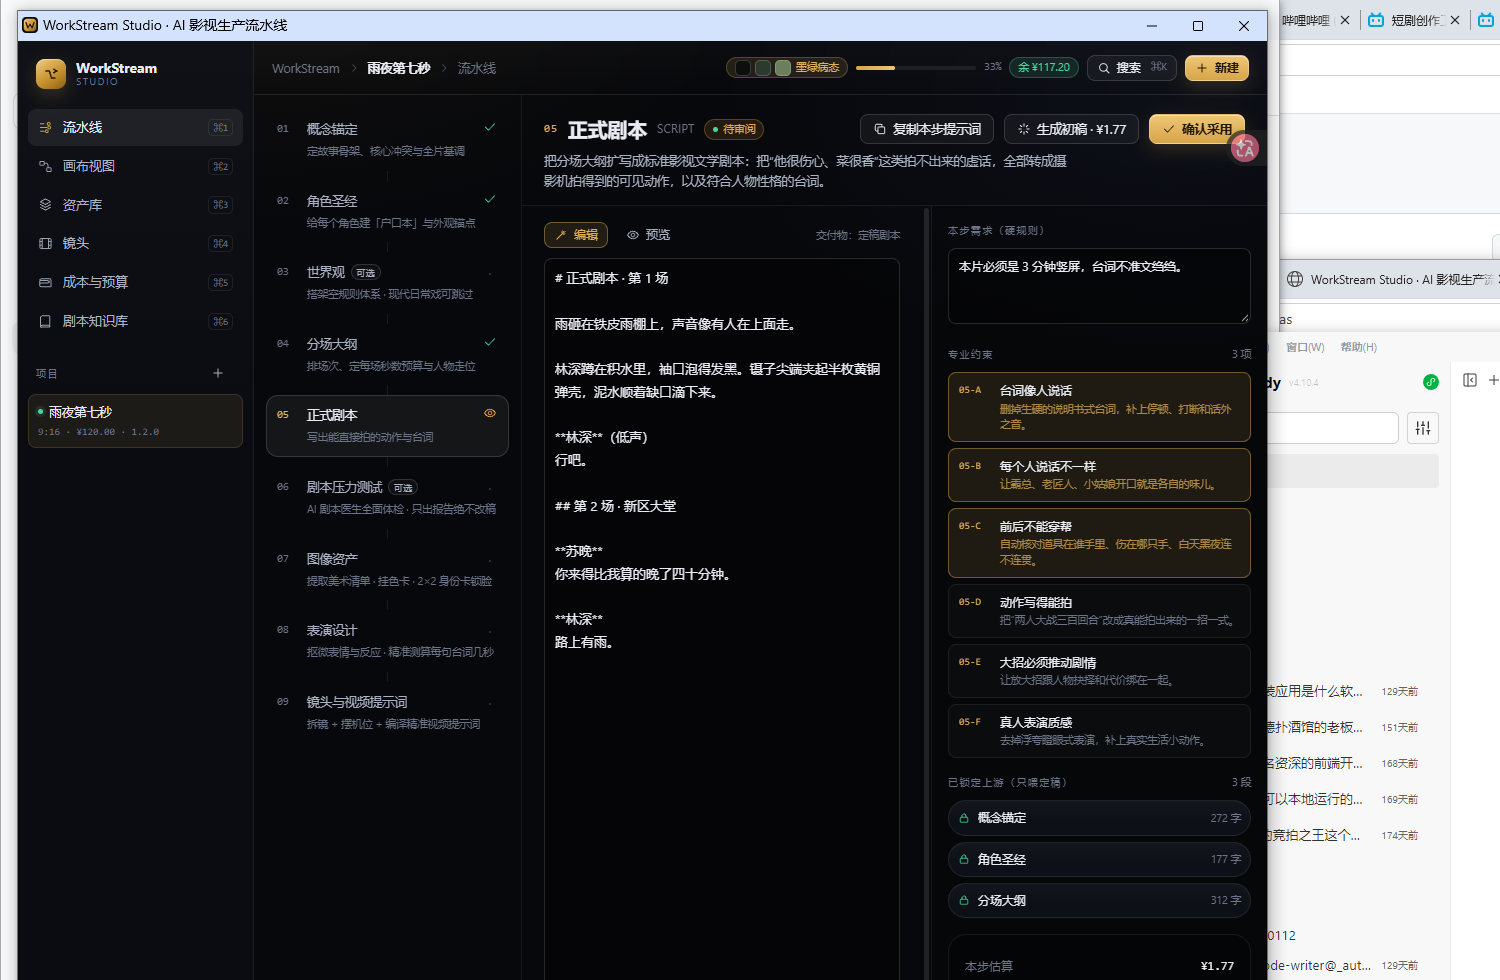
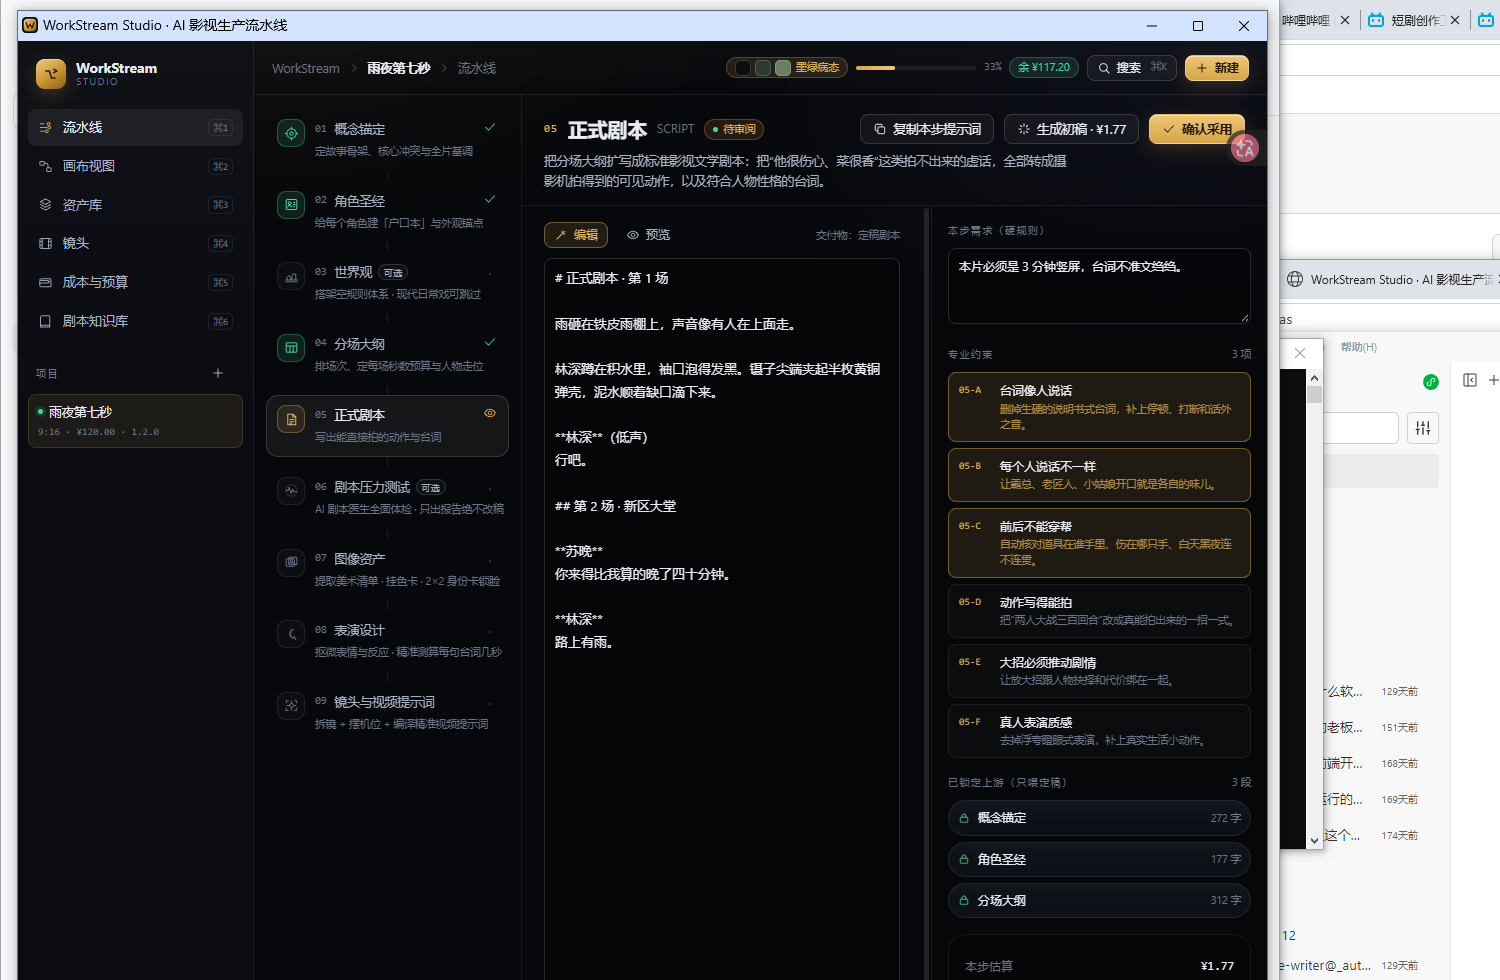
feat(design): 补齐视觉资产并接入界面
- 9 个阶段图标（24px 线稿）+ 5 张空状态插画 + 3 个状态徽标 + design tokens
- 阶段列表改为图标瓦片（激活金色 / 锁定绿色）
- 画布节点内嵌阶段图标
- 资产库 / 镜头 / 成本空状态接入插画
- 更新验收截图

diff --git a/src/ui/Illustration.tsx b/src/ui/Illustration.tsx
@@ -1,0 +1,64 @@
+/** 空状态插画：与 design/assets/empty-*.svg 同源，内联以省一次请求 */
+
+export type IllustrationKind = 'pipeline' | 'assets' | 'shots' | 'budget' | 'knowledge';
+
+export default function Illustration({ kind, width = 220 }: { kind: IllustrationKind; width?: number }) {
+  const common = { fill: 'none', strokeLinecap: 'round' as const, strokeLinejoin: 'round' as const };
+  return (
+    <svg viewBox="0 0 480 320" width={width} height={(width * 320) / 480} aria-hidden style={{ opacity: 0.9 }}>
+      {kind === 'pipeline' && (
+        <>
+          <g {...common} stroke="#2A3140" strokeWidth={1.5}>
+            <path d="M60 200h360" strokeDasharray="6 8" />
+            <path d="M182 183h40M308 183h40" strokeDasharray="4 6" />
+            <circle cx="414" cy="183" r="14" strokeDasharray="4 6" />
+          </g>
+          <g {...common}>
+            <rect x="96" y="150" width="86" height="66" rx="10" fill="#0D1016" stroke="#E0B055" strokeOpacity=".55" strokeWidth={1.6} />
+            <rect x="222" y="150" width="86" height="66" rx="10" fill="#0D1016" stroke="#2A3140" strokeDasharray="5 6" />
+            <rect x="348" y="150" width="60" height="66" rx="10" fill="#0D1016" stroke="#2A3140" strokeDasharray="5 6" />
+            <path d="M118 176h42M118 188h28" stroke="#E0B055" strokeOpacity=".55" strokeWidth={1.6} />
+          </g>
+        </>
+      )}
+      {kind === 'assets' && (
+        <g {...common}>
+          <rect x="88" y="96" width="96" height="128" rx="10" fill="#0D1016" stroke="#E0B055" strokeOpacity=".5" strokeWidth={1.5} />
+          <circle cx="136" cy="132" r="11" stroke="#E0B055" strokeOpacity=".5" strokeWidth={1.5} />
+          <rect x="200" y="96" width="96" height="128" rx="10" fill="#0D1016" stroke="#2A3140" strokeDasharray="5 6" />
+          <rect x="312" y="96" width="96" height="128" rx="10" fill="#0D1016" stroke="#2A3140" strokeDasharray="5 6" />
+          <path d="M112 168c8-14 18-21 24-21s16 7 24 21" stroke="#3A4354" strokeDasharray="4 6" />
+        </g>
+      )}
+      {kind === 'shots' && (
+        <g {...common}>
+          <rect x="60" y="118" width="360" height="84" rx="12" fill="#0D1016" stroke="#3A4354" strokeWidth={1.5} />
+          <path d="M60 142h360M60 178h360" stroke="#232A36" strokeWidth={1.5} />
+          <rect x="84" y="130" width="56" height="60" rx="6" stroke="#2A3140" strokeWidth={1.5} strokeDasharray="4 6" />
+          <rect x="156" y="130" width="56" height="60" rx="6" stroke="#2A3140" strokeWidth={1.5} strokeDasharray="4 6" />
+          <rect x="228" y="130" width="56" height="60" rx="6" stroke="#2A3140" strokeWidth={1.5} strokeDasharray="4 6" />
+          <rect x="300" y="130" width="56" height="60" rx="6" stroke="#3A4354" strokeWidth={1.5} />
+          <path d="M316 148l16 9-16 9z" fill="#E0B055" fillOpacity=".5" />
+        </g>
+      )}
+      {kind === 'budget' && (
+        <g {...common}>
+          <path d="M72 236h336M72 236V96" stroke="#2A3140" strokeWidth={1.5} />
+          <rect x="104" y="188" width="42" height="48" rx="6" stroke="#2A3140" strokeWidth={1.5} strokeDasharray="4 6" />
+          <rect x="176" y="164" width="42" height="72" rx="6" stroke="#2A3140" strokeWidth={1.5} strokeDasharray="4 6" />
+          <rect x="248" y="206" width="42" height="30" rx="6" stroke="#2A3140" strokeWidth={1.5} strokeDasharray="4 6" />
+          <rect x="320" y="140" width="42" height="96" rx="6" stroke="#2A3140" strokeWidth={1.5} strokeDasharray="4 6" />
+          <path d="M104 188l72-2 72 44 72-66" stroke="#E0B055" strokeOpacity=".45" strokeWidth={1.6} strokeDasharray="6 6" />
+        </g>
+      )}
+      {kind === 'knowledge' && (
+        <g {...common}>
+          <path d="M96 96h116v140H96z" fill="#0D1016" stroke="#E0B055" strokeOpacity=".5" strokeWidth={1.5} />
+          <path d="M212 96l60-22v140l-60 22" fill="#0D1016" stroke="#3A4354" strokeWidth={1.5} />
+          <path d="M120 126h68M120 148h68M120 170h44" stroke="#2A3140" strokeWidth={1.5} strokeDasharray="4 6" />
+          <path d="M232 118v96" stroke="#232A36" strokeWidth={1.5} />
+        </g>
+      )}
+    </svg>
+  );
+}

diff --git a/src/ui/StageIcon.tsx b/src/ui/StageIcon.tsx
@@ -1,0 +1,87 @@
+import type { ReactElement } from 'react';
+import type { StageId } from '../core/types';
+
+const paths: Record<StageId, ReactElement> = {
+  concept: (
+    <>
+      <circle cx="12" cy="12" r="7.5" />
+      <circle cx="12" cy="12" r="2.6" />
+      <path d="M12 2v3M12 19v3M2 12h3M19 12h3" />
+    </>
+  ),
+  characters: (
+    <>
+      <rect x="3.5" y="4" width="17" height="16" rx="2.4" />
+      <circle cx="9" cy="10" r="2.2" />
+      <path d="M5.8 16.6c.6-2 1.8-3 3.2-3s2.6 1 3.2 3" />
+      <path d="M15 9h3.2M15 12h3.2M15 15h2" />
+    </>
+  ),
+  world: (
+    <>
+      <path d="M3 17.5h18" />
+      <path d="M5 17.5V13l3-2 3 2v4.5" />
+      <path d="M13 17.5V9.5l3-2 3 2v8" />
+      <path d="M3 20.5h18" />
+    </>
+  ),
+  outline: (
+    <>
+      <rect x="3.5" y="4.5" width="17" height="15" rx="2" />
+      <path d="M3.5 9.5h17M9.5 9.5v10M15 9.5v10" />
+    </>
+  ),
+  script: (
+    <>
+      <path d="M6 3.5h8.5L19 8v12.5H6z" />
+      <path d="M14 3.5V8h5" />
+      <path d="M9 12h7M9 15.5h7M9 19h4" />
+    </>
+  ),
+  stress: (
+    <>
+      <path d="M3 12h3.5l2-5 3 10 2.5-7 1.8 4H21" />
+      <circle cx="12" cy="12" r="9" opacity=".35" />
+    </>
+  ),
+  lira: (
+    <>
+      <rect x="3.5" y="6" width="13" height="12" rx="1.8" />
+      <rect x="7.5" y="3.5" width="13" height="12" rx="1.8" />
+      <circle cx="12" cy="8.5" r="1.6" />
+      <path d="M7.8 14.2l3-3 2.4 2.4 2-2 2.8 2.8" />
+    </>
+  ),
+  acting: (
+    <>
+      <path d="M15.5 3.8c-3.6.6-6.2 3.4-6.2 7.2 0 4.2 3 7.2 6.2 7.2" />
+      <path d="M9.3 9.6h2.2M9.3 13.4h2.2" />
+      <path d="M15.7 15.6c1.6 1 2.8 2.6 3.3 4.6" />
+    </>
+  ),
+  cinedance: (
+    <>
+      <path d="M3.5 8V4.5H7M17 4.5h3.5V8M20.5 16v3.5H17M7 19.5H3.5V16" />
+      <circle cx="12" cy="12" r="3" />
+      <path d="M12 4.5v3M12 16.5v3M4.5 12h3M16.5 12h3" />
+    </>
+  ),
+};
+
+export default function StageIcon({ id, size = 15 }: { id: StageId; size?: number }) {
+  return (
+    <svg
+      viewBox="0 0 24 24"
+      width={size}
+      height={size}
+      fill="none"
+      stroke="currentColor"
+      strokeWidth={1.6}
+      strokeLinecap="round"
+      strokeLinejoin="round"
+      aria-hidden
+    >
+      {paths[id]}
+    </svg>
+  );
+}

diff --git a/src/features/Pipeline.tsx b/src/features/Pipeline.tsx
@@ -1,5 +1,6 @@
 import { useMemo, useState } from 'react';
 import { Icon } from '../ui/Icons';
+import StageIcon from '../ui/StageIcon';
 import { SectionTitle } from '../ui/kit';
 import { STAGES, stageById, upstreamLocked } from '../core/stages';
 import { skillsForStage } from '../core/skills';
@@ -69,9 +70,12 @@ export default function Pipeline() {
           return (
             <div key={s.id}>
               <button className={`stage-item ${s.id === activeStage ? 'on' : ''}`} onClick={() => openStage(s.id)}>
-                <span className="num">{s.code}</span>
+                <span className={`stage-ico ${st.status === 'locked' ? 'locked' : ''}`}>
+                  <StageIcon id={s.id} />
+                </span>
                 <span className="body">
                   <span className="nm">
+                    <span className="tiny mono dim" style={{ marginRight: 2 }}>{s.code}</span>
                     {s.name}
                     {s.optional ? <span className="tag" style={{ height: 16, padding: '0 5px', fontSize: 9 }}>可选</span> : null}
                   </span>

diff --git a/src/ui/styles.css b/src/ui/styles.css
@@ -316,6 +316,19 @@ select { cursor: pointer; }
   width: 20px; flex: none; padding-top: 2px;
 }
 .stage-item.on .num { color: var(--gold); }
+
+.stage-ico {
+  width: 28px; height: 28px; flex: none;
+  display: grid; place-items: center;
+  border-radius: 9px;
+  border: 1px solid var(--line);
+  background: rgba(255, 255, 255, 0.025);
+  color: var(--text-3);
+  transition: color 0.15s, border-color 0.15s, background 0.15s;
+}
+.stage-item:hover .stage-ico { color: var(--text-2); border-color: var(--line-strong); }
+.stage-item.on .stage-ico { color: var(--gold); border-color: rgba(224,176,85,0.35); background: var(--gold-soft); }
+.stage-ico.locked { color: var(--green); border-color: rgba(69,214,155,0.3); background: var(--green-soft); }
 .stage-item .body { min-width: 0; flex: 1; }
 .stage-item .nm { font-size: 12.5px; display: flex; align-items: center; gap: 6px; }
 .stage-item .sub { font-size: 10.5px; color: var(--text-3); white-space: nowrap; overflow: hidden; text-overflow: ellipsis; }

diff --git a/src/features/Shots.tsx b/src/features/Shots.tsx
@@ -1,6 +1,6 @@
 import { useState } from 'react';
 import { Icon } from '../ui/Icons';
-import { SectionTitle } from '../ui/kit';
+import { SectionTitle, Empty } from '../ui/kit';
 import { compileShotPrompt } from '../core/prompt';
 import { formatCNY, lineSeconds, UNIT_PRICE } from '../core/budget';
 import { useActive, useApp } from '../store/store';
@@ -93,7 +93,9 @@ export default function Shots() {
               ))}
             </tbody>
           </table>
-          {!project.shots.length ? <div className="empty">还没有镜头。先在 09 阶段拆镜，或在这里手动添加。</div> : null}
+          {!project.shots.length ? (
+            <Empty title="还没有镜头" hint="先在 09 阶段拆镜，或在这里手动添加。" illustration="shots" />
+          ) : null}
         </div>
 
         <div style={{ borderLeft: '1px solid var(--line)', overflowY: 'auto', padding: 16 }}>

diff --git a/src/ui/kit.tsx b/src/ui/kit.tsx
@@ -1,5 +1,6 @@
 import { useEffect, type ReactNode } from 'react';
 import { Icon } from './Icons';
+import Illustration, { type IllustrationKind } from './Illustration';
 
 export function Modal({
   open,
@@ -74,9 +75,14 @@ export function SectionTitle({ children, right }: { children: ReactNode; right?:
   );
 }
 
-export function Empty({ title, hint }: { title: string; hint?: string }) {
+export function Empty({ title, hint, illustration }: { title: string; hint?: string; illustration?: IllustrationKind }) {
   return (
     <div className="empty">
+      {illustration ? (
+        <div style={{ marginBottom: 10, display: 'flex', justifyContent: 'center' }}>
+          <Illustration kind={illustration} width={200} />
+        </div>
+      ) : null}
       <div style={{ marginBottom: 6 }}>{title}</div>
       {hint ? <div className="tiny dim">{hint}</div> : null}
     </div>

diff --git a/src/features/Canvas.tsx b/src/features/Canvas.tsx
@@ -1,5 +1,6 @@
 import { useMemo } from 'react';
 import { Icon } from '../ui/Icons';
+import StageIcon from '../ui/StageIcon';
 import { STAGES } from '../core/stages';
 import { useActive, useApp } from '../store/store';
 import type { StageId } from '../core/types';
@@ -143,7 +144,10 @@ export default function Canvas() {
                   tabIndex={0}
                   onKeyDown={(e) => e.key === 'Enter' && openStage(s.id)}
                 >
-                  <div className="n-code">STAGE {s.code}</div>
+                  <div className="n-code" style={{ display: 'flex', alignItems: 'center', gap: 5 }}>
+                    <StageIcon id={s.id} size={12} />
+                    STAGE {s.code}
+                  </div>
                   <div className="n-name">{s.name}</div>
                   <div className="n-meta">
                     <Icon

diff --git a/src/features/Assets.tsx b/src/features/Assets.tsx
@@ -1,6 +1,6 @@
 import { useMemo, useState } from 'react';
 import { Icon } from '../ui/Icons';
-import { Modal, SectionTitle } from '../ui/kit';
+import { Modal, SectionTitle, Empty } from '../ui/kit';
 import { PALETTE_CATEGORIES, PALETTES } from '../core/palettes';
 import { formatCNY, UNIT_PRICE } from '../core/budget';
 import { useActive, useApp } from '../store/store';
@@ -130,7 +130,9 @@ export default function Assets() {
           ) : null
         )}
 
-        {!project.assets.length ? <div className="empty">还没有资产，先添加角色与场景。</div> : null}
+        {!project.assets.length ? (
+          <Empty title="还没有资产" hint="先添加角色与场景；角色写清五官、发型、服装与标志道具。" illustration="assets" />
+        ) : null}
       </div>
 
       <Modal

diff --git a/src/features/Budget.tsx b/src/features/Budget.tsx
@@ -1,5 +1,5 @@
 import { Icon } from '../ui/Icons';
-import { Progress, SectionTitle, Stat } from '../ui/kit';
+import { Progress, SectionTitle, Stat, Empty } from '../ui/kit';
 import { formatCNY, remaining, spent } from '../core/budget';
 import { stageById } from '../core/stages';
 import { useActive, useApp } from '../store/store';
@@ -117,7 +117,7 @@ export default function Budget() {
               ))}
             </tbody>
           </table>
-          {!project.costs.length ? <div className="empty">还没有消费记录</div> : null}
+          {!project.costs.length ? <Empty title="还没有消费记录" hint="生成任一阶段或资产后，这里会出现明细。" illustration="budget" /> : null}
         </div>
       </div>
     </div>
